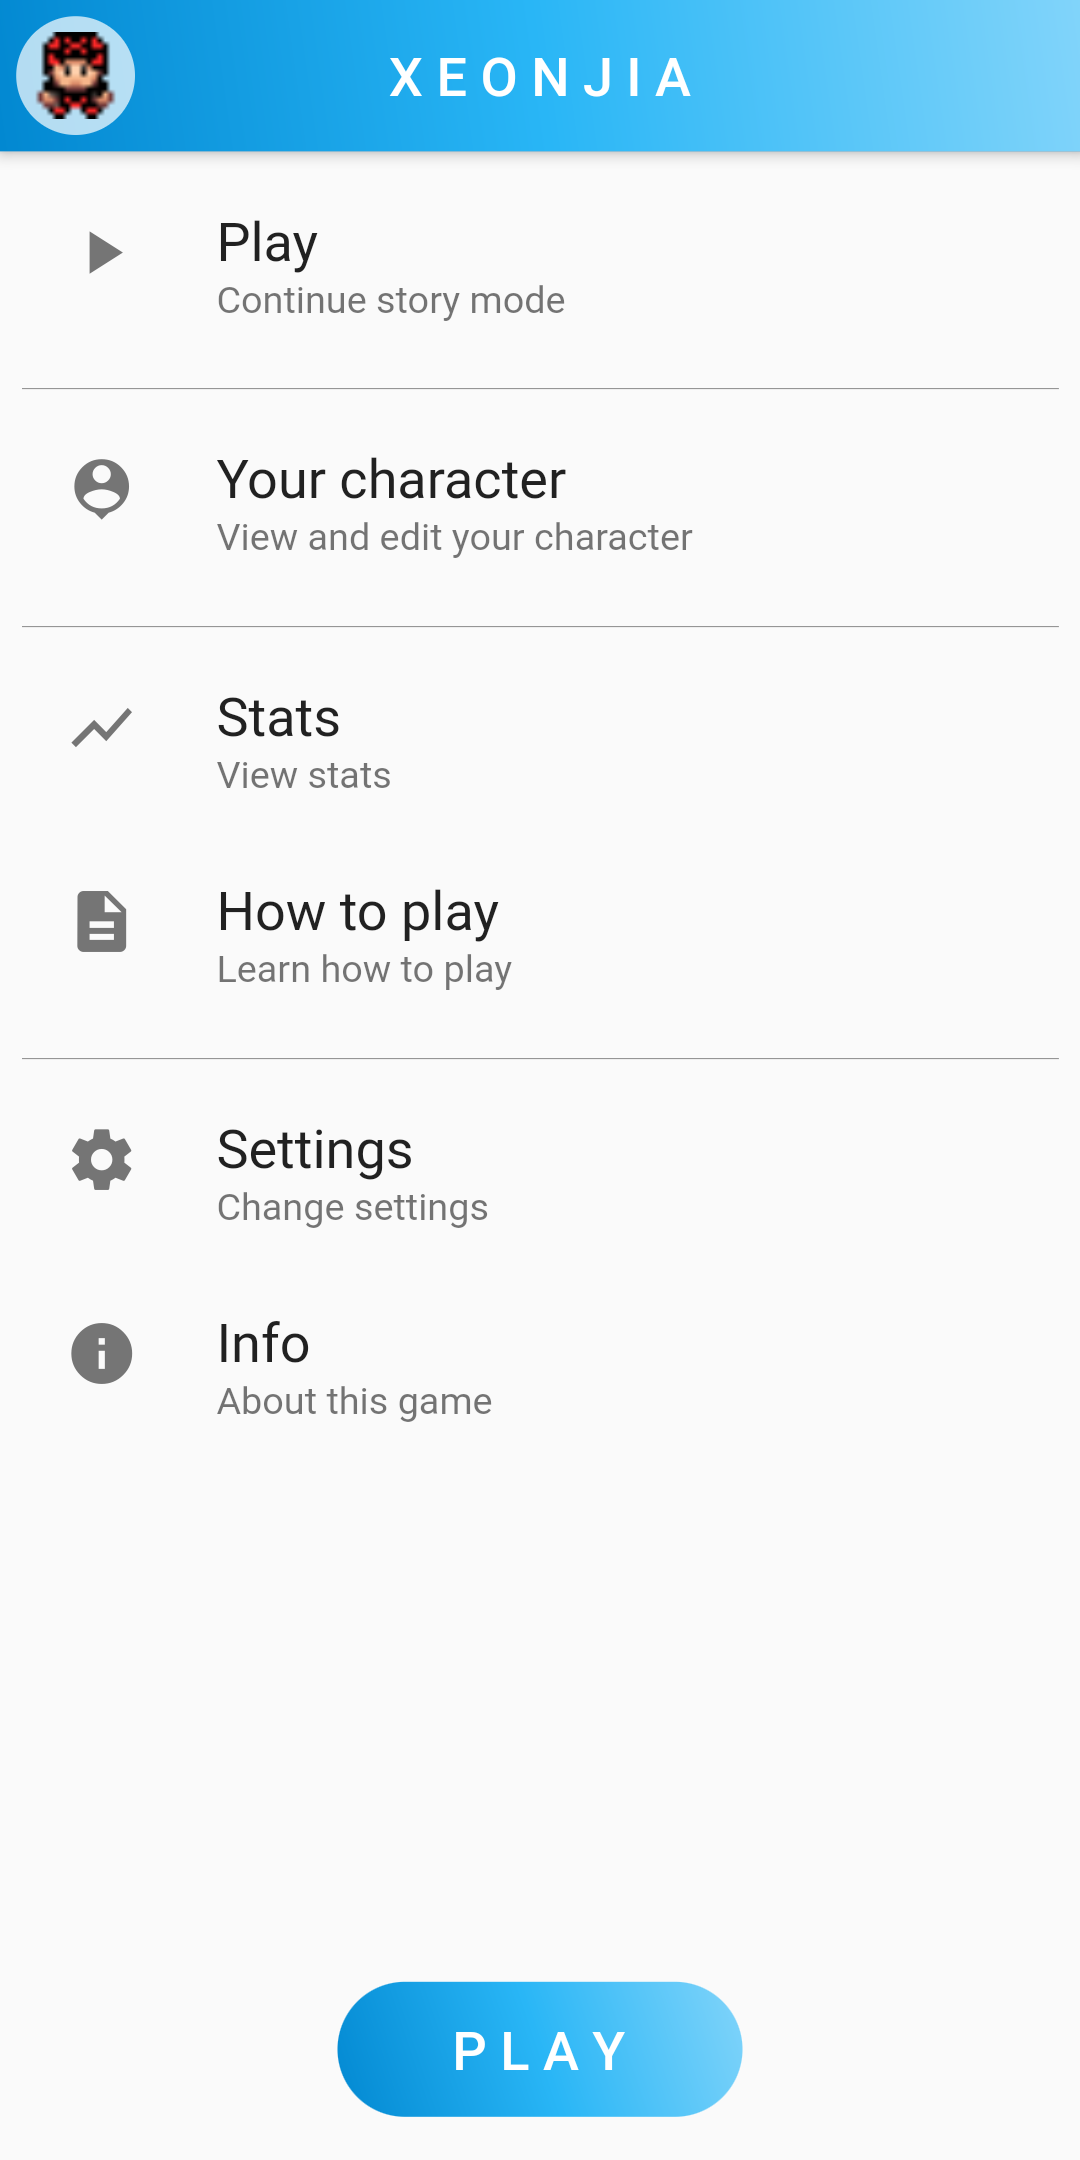
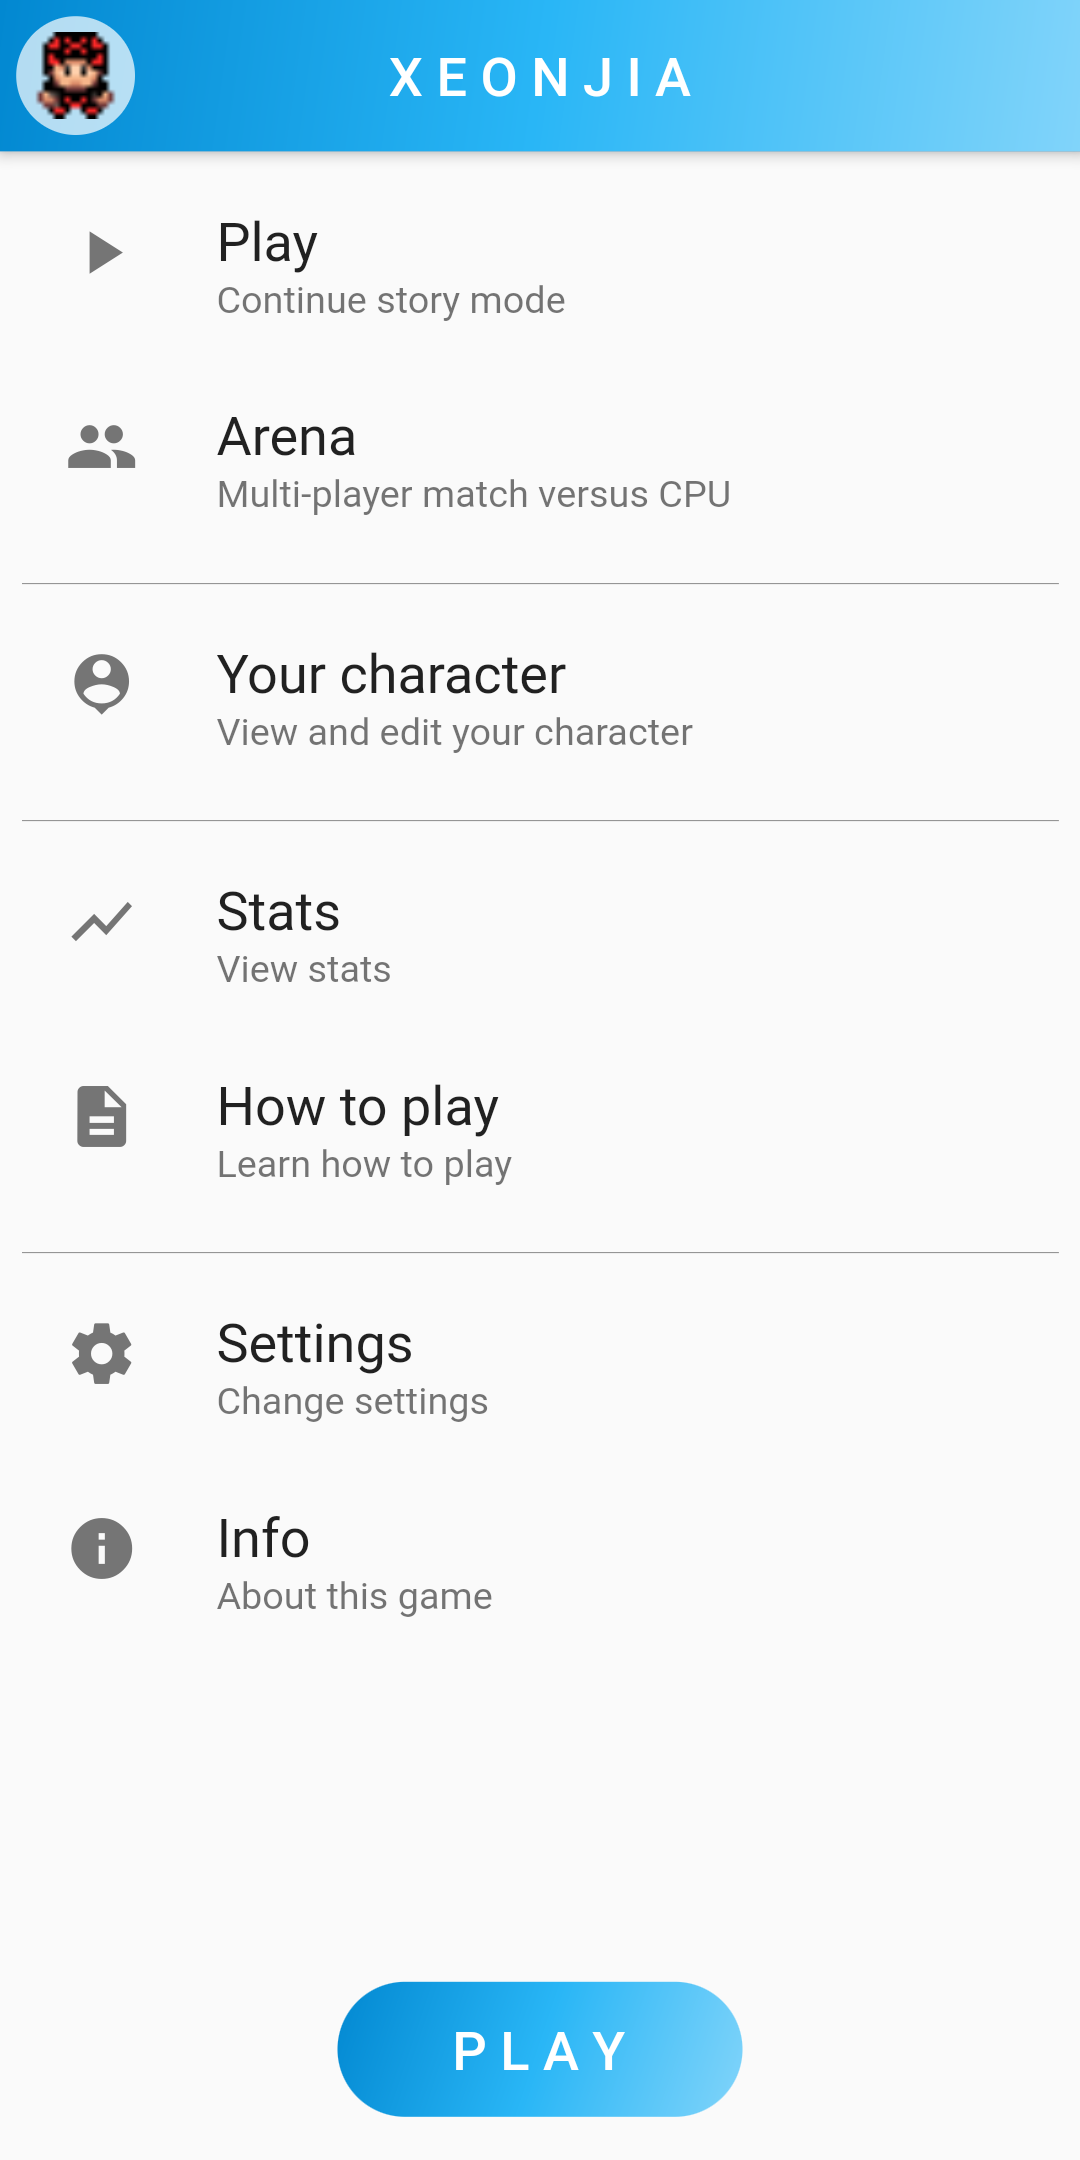
Update screenshots

diff --git a/README.md b/README.md
@@ -23,7 +23,7 @@ Use your mind to figure out how to find the right path!
 <img src="fastlane/metadata/android/en-US/images/phoneScreenshots/HomePage.png" height="320">
 <img src="fastlane/metadata/android/en-US/images/phoneScreenshots/RoomGame.png" height="320">
 <img src ="fastlane/metadata/android/en-US/images/phoneScreenshots/RoomGame_2.png" height="320">
-<img src ="fastlane/metadata/android/en-US/images/phoneScreenshots/RoomGame_3.png" height="320">
+<img src ="fastlane/metadata/android/en-US/images/phoneScreenshots/Multiplayer.png" height="320">
 
 ## License
 
